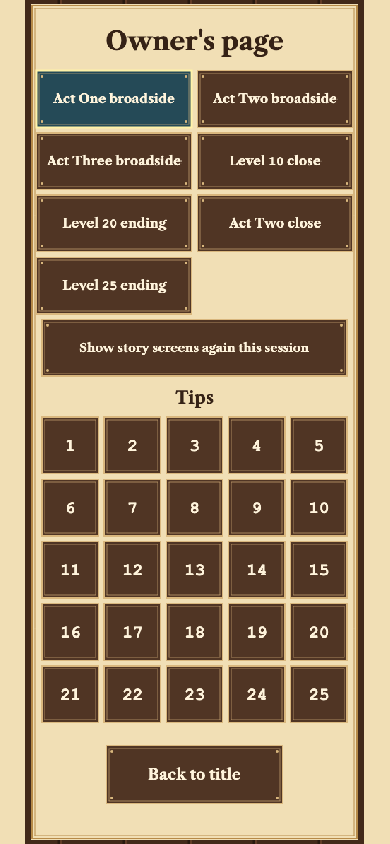
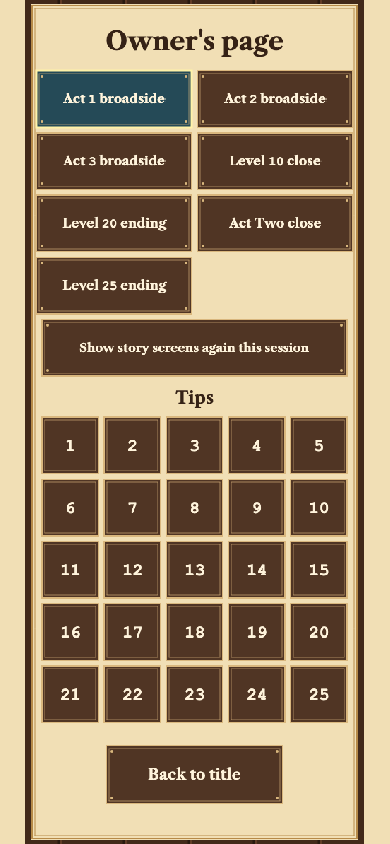
Fit owner page labels in wide font mode

Changed region(s): [[0.1231, 0.1848, 0.4615, 0.2156], [0.1231, 0.0924, 0.4615, 0.1232], [0.5538, 0.0924, 0.8615, 0.1232]]

diff --git a/e2e/owner-link.spec.ts b/e2e/owner-link.spec.ts
@@ -305,11 +305,14 @@ test('session reset brings back normal story and tips, once per screen, without 
   expect(await uiKeys(page)).toContain('title:tips');
 });
 
+// Linux draws the bundled font about 2.6% wider than macOS before scaling.
+const wideFactor = process.platform === 'darwin' ? 1.09 : 1.06;
+
 for (const font of ['normal', 'tall fallback', 'tall Caslon', 'wide'] as const) {
   test(`owner mark and page fit in ${font} font mode`, async ({ page }, info) => {
     if (font === 'tall fallback') await useTallFontMetrics(page);
     if (font === 'tall Caslon') await useTallFontMetrics(page, false);
-    if (font === 'wide') await useWideFontMetrics(page);
+    if (font === 'wide') await useWideFontMetrics(page, wideFactor);
     const viewports = info.project.name === 'phone' ? [{ width: 390, height: 664 }, { width: 390, height: 844 }] : [page.viewportSize()!];
     for (const { width, height } of viewports) {
       await test.step(`${width}x${height}`, async () => {
@@ -357,10 +360,12 @@ async function checkFit(page: Page, controls: Record<string, string>) {
     expect(box.br.y - box.tl.y, box.key).toBeGreaterThanOrEqual(44);
     const label = boxes.text.find(label => label.text === box.text);
     expect(label, box.key).toBeDefined();
-    expect(label!.x, box.key).toBeGreaterThanOrEqual(box.x + 4);
-    expect(label!.x + label!.width, box.key).toBeLessThanOrEqual(box.x + box.width - 4);
-    expect(label!.y, box.key).toBeGreaterThanOrEqual(box.y + 4);
-    expect(label!.y + label!.height, box.key).toBeLessThanOrEqual(box.y + box.height - 4);
+    // The 2 px outline straddles the box bounds. Leave 4 px inside the outline.
+    const inset = 1 + 4;
+    expect(label!.x, box.key).toBeGreaterThanOrEqual(box.x + inset);
+    expect(label!.x + label!.width, box.key).toBeLessThanOrEqual(box.x + box.width - inset);
+    expect(label!.y, box.key).toBeGreaterThanOrEqual(box.y + inset);
+    expect(label!.y + label!.height, box.key).toBeLessThanOrEqual(box.y + box.height - inset);
     for (const other of boxes.text.filter(text => text !== label)) {
       expect(overlapping(box, other), `${box.key} overlaps ${other.text}`).toBe(false);
     }

diff --git a/src/game/ui/campaignScreens.ts b/src/game/ui/campaignScreens.ts
@@ -206,7 +206,7 @@ export function drawOwnerPage(scene: Phaser.Scene, portrait: boolean, levels: re
   levels.forEach(({ id }, index) => button(`owner:tips:${id}`,
     grid(index, 5, portrait ? 432 : 580, portrait ? 590 : 285, portrait ? 80 : 44, portrait ? 8 : 4),
     String(id), () => tips(id), portrait ? 24 : 20));
-  button('back', row(portrait ? 1055 : 524, portrait ? 250 : 208, portrait ? 82 : 44), OWNER_TEXT.back, back, 21);
+  button('back', row(portrait ? 1055 : 524, portrait ? 250 : 208, portrait ? 82 : 46), OWNER_TEXT.back, back, 21);
   return keys;
 }
 

diff --git a/src/game/TitleScene.ts b/src/game/TitleScene.ts
@@ -507,7 +507,7 @@ export class TitleScene extends Phaser.Scene {
       const keys = ['campaign', 'freePlay'];
       if (ownerMode) {
         this.action('title:owner', portrait ? { x: cx - 64, y: 728, width: 128, height: 80 }
-          : { x: 14, y: 14, width: 98, height: 44 }, OWNER_TEXT.mark, toOwner, 21);
+          : { x: 14, y: 14, width: 98, height: 46 }, OWNER_TEXT.mark, toOwner, 21);
         keys.push('owner');
       }
       this.bindMenuKeys(keys);

diff --git a/src/game/names.ts b/src/game/names.ts
@@ -526,9 +526,9 @@ export const STORY_TEXT = {
 export const OWNER_TEXT = {
   mark: 'Owner',
   title: "Owner's page",
-  opening: 'Act One broadside',
-  secondAct: 'Act Two broadside',
-  thirdAct: 'Act Three broadside',
+  opening: 'Act 1 broadside',
+  secondAct: 'Act 2 broadside',
+  thirdAct: 'Act 3 broadside',
   firstClose: 'Level 10 close',
   ending: 'Level 20 ending',
   secondClose: 'Act Two close',

diff --git a/docs/DESIGN.md b/docs/DESIGN.md
@@ -2640,6 +2640,10 @@ regular win on that level. A regular win always records its own pass, even
 if it earns fewer stars than the owner best.
 
 Owner's page opens the three broadsides, both act closes, both campaign
-endings and all 25 sets of tips. Opening and leaving a preview does not mark
-it seen. The session control starts fresh in-memory seen records for both
+endings and all 25 sets of tips. The broadside buttons read “Act 1 broadside”,
+“Act 2 broadside” and “Act 3 broadside”. Every button label, including the
+title's Owner mark, leaves at least 4 canvas px inside the outer outline in
+normal, tall and wide font modes. Opening and leaving a preview does not mark
+it seen. The Owner mark and Back to title button are 46 canvas px tall in
+landscape. The session control starts fresh in-memory seen records for both
 broadsides and tips. Repeat visits use those records until the page reloads.
